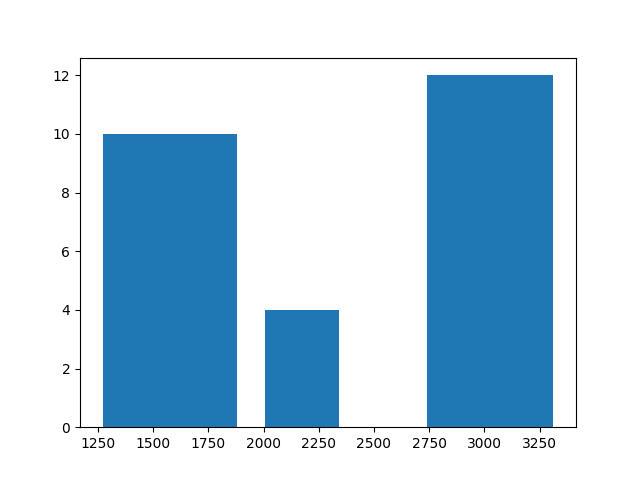
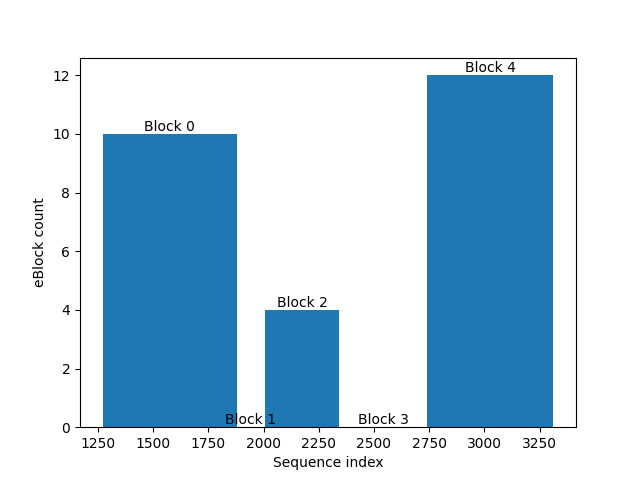
small changes and work done on tutorial

diff --git a/src/design_gene_blocks.py b/src/design_gene_blocks.py
@@ -8,7 +8,7 @@ from Bio import SeqIO
 from operator import add, sub
 import matplotlib.pyplot as plt
 from sklearn.cluster import MeanShift
-from utils import read_codon_usage, DNA_Codons, write_pickle
+from utils import read_codon_usage, DNA_Codons, write_pickle, log_to_file_and_console, create_or_clear_file
 
 script_dir = os.path.dirname(os.path.abspath(__file__))
 template_path = os.path.join(script_dir, 'data/eblocks-plate-upload-template-96.xlsx')
@@ -44,6 +44,14 @@ class DesignEblocks:
         self.codon_usage_fp = codon_usage_fp
         self.n_iterations = 100  # Number of iterations to run mean shift clustering
         self.gene_blocks = None
+        self.logfile = os.path.join(self.output_fp, "design_gene_blocks.log")
+
+        # TODO CHANGE THIS AND INCLUDE LOGFILE
+        # # Create or clear log file
+        # create_or_clear_file(self.logfile)
+
+        # # Redirect stdout to the log file
+        # sys.stdout = open(self.logfile, 'a')
         
         self.dna_seq = self.read_seq(sequence_fp)
         self.mutations, self.mutation_types = self.read_mutations(mutations_fp)  # Types = {Mutation, Insert, Deletion}
@@ -63,8 +71,8 @@ class DesignEblocks:
         optimal_bandwidth, lowest_cost = self.optimize_bins(idx_dna)
 
         clusters = self.meanshift(idx_dna, optimal_bandwidth)
-        print(clusters)
-        print("Lowest cost: ", str(lowest_cost), f"with {len(clusters)} clusters")
+        print( str(clusters))
+        print( "Lowest cost: ", str(lowest_cost), f"with {len(clusters)} clusters")
 
         # Write expected cost to file
         with open(os.path.join(self.output_fp, "expected_cost.txt"), "w") as f:
@@ -92,7 +100,8 @@ class DesignEblocks:
 
                 mut_type = self.mutation_types[num]
                 
-                print(mut, mut_type)
+                print( mut)
+                print( mut_type)
 
                 # Change gene block in selected position for mutation
                 if mut_type == self.type_mutation:
@@ -144,7 +153,8 @@ class DesignEblocks:
 
                     idx_del_start = idx_dna_tups[num][1]
                     idx_del_end = int(mut.split('-')[1][1:]) * 3
-                    print(idx_del_start, idx_del_end)
+                    print( idx_del_start)
+                    print( idx_del_end)
                     
                     mut_gene_block_name, mut_gene_block_value = self.find_gene_block(gene_blocks, idx_del_start)
                     idx = self.find_mutation_index_in_gene_block(mut_gene_block_name, idx_del_start)
@@ -167,10 +177,11 @@ class DesignEblocks:
 
                     # Find gene block and index of insert/deletion/mutation
                     mut_idx = idx_dna_tups[num][0][1]
-                    print(mut_idx)
+                    print( mut_idx)
 
                     mut_gene_block_name, mut_gene_block_value = self.find_gene_block(gene_blocks, mut_idx)
-                    print(mut_gene_block_name, mut_gene_block_value)
+                    print( mut_gene_block_name)
+                    log_to_file_and_console(self.logile, mut_gene_block_value)
 
                     idxs = []
                     codons = []
@@ -200,12 +211,17 @@ class DesignEblocks:
         write_pickle(results, self.output_fp)
         write_pickle(gene_blocks, self.output_fp, fname="wt_gene_blocks.npy")
 
+        # Restore stdout to the original value
+        # TODO FIX THIS
+        # sys.stdout = sys.__stdout__
+        # self.logfile.close()
+
     def check_wt_codon(self, gene_block_value, idx, mut):
         for key, value in DNA_Codons.items():
                 if key.lower() == gene_block_value[idx-3:idx]:
                     result = value
         if not result == mut[0]:
-            print(f"WT codon does not match residue {mut}, but is {result}, the codon is {gene_block_value[idx-3:idx]}")
+            print( f"WT codon does not match residue {mut}, but is {result}, the codon is {gene_block_value[idx-3:idx]}")
             sys.exit()
 
     def check_existance_codon_usage_table(self):
@@ -221,16 +237,16 @@ class DesignEblocks:
             i = organisms_present_format.index(self.species.lower())
             return os.path.join(self.codon_usage_fp, codon_usage_present[i])
         else:
-            print("It looks like the codon usage table for the specified organism is not present.")
+            print( "It looks like the codon usage table for the specified organism is not present.")
             sys.exit()
 
     def check_eblock_length(self, mut_gene_block):
             # Make sure that the codon insert is not too long or too short for eBlock
             if len(mut_gene_block) > self.idt_max_length_fragment:
-                print("Codon insert is too long for eBlock")
+                print( "Codon insert is too long for eBlock")
                 sys.exit()
             elif len(mut_gene_block) < self.idt_min_length_fragment:
-                print(f"Codon insert is too short for eBlock, length is {len(mut_gene_block)}")
+                print( f"Codon insert is too short for eBlock, length is {len(mut_gene_block)}")
                 sys.exit()
             else:
                 return True
@@ -251,7 +267,7 @@ class DesignEblocks:
                 idx_dna_tups.append([mut, int(mut[1:-1]) * 3])
             elif (type == self.type_insert) or (type == self.type_deletion):
                 mut_i = mut.split('-')[0]
-                print(mut_i)
+                print( mut_i)
                 idx_dna.append(int(mut_i[1:]) * 3)  # A residue consists of 3 nucleotides
                 idx_dna_tups.append([mut_i, int(mut_i[1:]) * 3])
             elif type == self.type_combined:
@@ -276,44 +292,45 @@ class DesignEblocks:
         """
         valid = 'acdefghiklmnpqrstvwy'
         for mut, type in zip(mutations, mutation_types):
-            print(mut, type)
+            print( mut)
+            print( type)
             if type == self.type_mutation:
                 if not self.check_mut_format(mut, self.type_mutation):
-                    print(f"Input {mut} contain non-natural amino acids or incorrect formatting")
+                    print( f"Input {mut} contain non-natural amino acids or incorrect formatting")
                     sys.exit()
             elif type == self.type_insert:
                 mut_format = mut.split('-')[0]
                 added_residues = mut.split('-')[1]
                 if not self.check_mut_format(mut_format, self.type_insert):
-                        print(f"Input {mut} contain non-natural amino acids or incorrect formatting")
+                        print( f"Input {mut} contain non-natural amino acids or incorrect formatting")
                         sys.exit()
                 for i in added_residues:
                     if not i.lower() in valid:
-                        print(f"Input {i} contain non-natural amino acids or incorrect formatting")
+                        print( f"Input {i} contain non-natural amino acids or incorrect formatting")
                         sys.exit()
             elif type == self.type_deletion:
                 mut_start = mut.split('-')[0]
                 mut_end = mut.split('-')[0]
                 if not self.check_mut_format(mut_start, self.type_deletion):
-                    print(f"Input {mut_start} contain non-natural amino acids or incorrect formatting")
+                    print( f"Input {mut_start} contain non-natural amino acids or incorrect formatting")
                     sys.exit()
                 if not self.check_mut_format(mut_end, self.type_deletion):
-                    print(f"Input {mut_end} contain non-natural amino acids or incorrect formatting")
+                    print( f"Input {mut_end} contain non-natural amino acids or incorrect formatting")
                     sys.exit()
             elif type == self.type_combined:
                 mut_list = mut.split('-')
                 for i in mut_list:
                     if not self.check_mut_format(i, self.type_combined):
-                        print(f"Input {i} contain non-natural amino acids or incorrect formatting")
+                        print( f"Input {i} contain non-natural amino acids or incorrect formatting")
                         sys.exit()
             else:
-                print("Input contains non standard mutation")
+                print( "Input contains non standard mutation")
                 sys.exit()
         return True
 
     def check_number_input_mutations(self, mutations):
         if len(mutations) < self.idt_min_order:
-            print(f"Minimum number of mutations {len(mutations)} is lower than the minimum amount of {self.idt_min_order}. \
+            print( f"Minimum number of mutations {len(mutations)} is lower than the minimum amount of {self.idt_min_order}. \
                     Please make sure you have enough mutations in your input.")
             sys.exit()
         elif len(mutations) >= self.idt_min_order:
@@ -349,15 +366,15 @@ class DesignEblocks:
                     mutation_types.append(self.type_combined)
                     mutations.append(line[1])
                 else:
-                    print(f"Please check format of mutation {line}, one mutation should be written per line and for inserts and deletions check the requirements.")
+                    print( f"Please check format of mutation {line}, one mutation should be written per line and for inserts and deletions check the requirements.")
                     sys.exit() 
         # (1) Check there are NO non-natural amino acids in the mutations
         # (2) Check that there are enough mutations to process
         # (3) Check formatting of mutations
         # (4) check that there are no duplicate mutations
         if len(mutations) != len(set(mutations)):
-            # TODO print duplicate mutations
-            print("Duplicate mutations detected. Please remove and rerun.")
+            # TODO log_to_file_and_console duplicate mutations
+            print( "Duplicate mutations detected. Please remove and rerun.")
             sys.exit()
         if (self.check_input_mutations(mutations, mutation_types)) and (self.check_number_input_mutations(mutations)):  
             return mutations, mutation_types
@@ -387,11 +404,16 @@ class DesignEblocks:
         return bins
 
     def make_histogram(self, data, outpath, bins, labels, fname="hist.png"):
-        # TODO ADD LABELS TO HISTOGRAM
-        # TODO ADD COUNTS TO HISTOGRAM
+        # TODO Remove empty bins from histogram
+        # Only take eblock number as label
+        labels = [i.split('_')[0:2] for i in labels]
+        labels = [' '.join(i) for i in labels]
         outname = os.path.join(outpath, fname)
         _, _, bars = plt.hist(data, bins=bins, align=('mid'))
         plt.bar_label(bars, labels)
+        plt.xlabel('Sequence index')
+        plt.ylabel('eBlock count')
+
         # plt.set_xticks(labels)
         plt.savefig(outname)
 
@@ -469,7 +491,8 @@ class DesignEblocks:
             cost = self.calculate_cost(clusters)
             new_bandwidth = self.check_fragment_sizes(clusters, bandwidth)
             
-            print(new_bandwidth, cost)
+            print( str(new_bandwidth))
+            print( str(cost))
             
             if bandwidth == new_bandwidth:
                 if lowest_cost > cost:
@@ -579,15 +602,15 @@ class DesignEblocks:
             sys.exit()
         # SHOULD NOT BE NECCESSARY
 
-        # print(begin_range, end_range, idx_mutation)
+        # log_to_file_and_console(begin_range, end_range, idx_mutation)
         # # TODO CHANGE
         # if (idx_mutation - begin_range) > self.idt_min_length_fragment:
         #     # self.alter_gene_block_range(gene_block, 'extend_begin')
-        #     print("Mutation is too close to beginning of gene block")
+        #     log_to_file_and_console("Mutation is too close to beginning of gene block")
         #     sys.exit()
         # elif (end_range - idx_mutation) < self.idt_min_length_fragment:
-        #     print(end_range - idx_mutation)
-        #     print("Mutation is too close to final part of gene block")
+        #     log_to_file_and_console(end_range - idx_mutation)
+        #     log_to_file_and_console("Mutation is too close to final part of gene block")
         #     sys.exit()
 
     def alter_gene_block_range(self, gene_block, alteration):

diff --git a/src/utils.py b/src/utils.py
@@ -52,3 +52,22 @@ def load_pickle(fp):
     with open(fp, 'rb') as handle:
         obj = pickle.load(handle)
     return obj
+
+def log_to_file_and_console(logfile, *messages):
+    with open(logfile, 'a') as log_file:
+        for message in messages:
+            # Write each message to the log file
+            log_file.write(message)
+    # Print all messages to the console
+    print(*messages, end='')
+
+def create_or_clear_file(file_path):
+    try:
+        # Check if the file exists
+        with open(file_path, 'r') as file:
+            # Close the file
+            pass
+    except FileNotFoundError:
+        # If the file doesn't exist, create it
+        with open(file_path, 'w'):
+            pass
